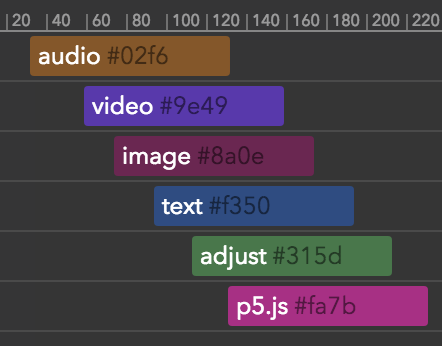
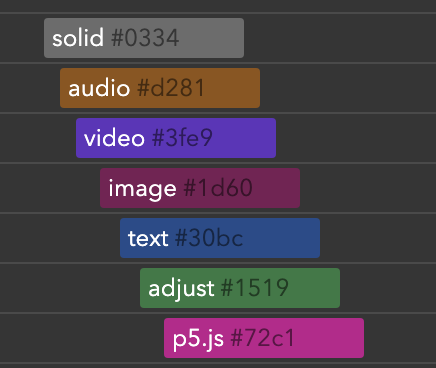
Update clip doc

diff --git a/book/usage/clip/00_summary.md b/book/usage/clip/00_summary.md
@@ -3,23 +3,25 @@
 ![Clips](../../assets/usage/clip/clips.png)
 
 Delir では「クリップ」を配置していくことで動画を制作します。
-Alpha.5 時点で以下の 6 種類のクリップが利用できます。
+Alpha.7 時点で以下の 6 種類のクリップが利用できます。
 
+- **solid クリップ**
+  平面オブジェクトです。
 - **audio クリップ**  
   音声ファイルを扱うクリップです。  
   wav / mp3 / webm / mp4 (AAC) / ogg 形式に対応しています
 - **video クリップ**  
   映像ファイルを扱うクリップです。  
   mp4 (H.264 + AAC) / webm / ogg 形式に対応しています
-  （アルファチャンネル付き形式には現在対応していません）
+  （アルファチャンネル付き形式には現在対応していません ）
 - **image クリップ**  
   画像ファイルを扱うクリップです。  
   png / jpeg / svg / gif 形式に対応しています
-  （アニメーションGIFは静止画として表示されます）
+  （アニメーション GIF は静止画として表示されます）
 - **text クリップ**  
   テキストを表示するクリップです。
 - **adjustment クリップ**  
   調整クリップです。このクリップより下に配置されたクリップ全体に対して  
   調整クリップに適用されたエフェクトを適用することができます。
 - **p5.js クリップ**  
-  p5.jsのプログラムコードを記述することで映像を描写するクリップです。  
+  p5.js のプログラムコードを記述することで映像を描写するクリップです。
